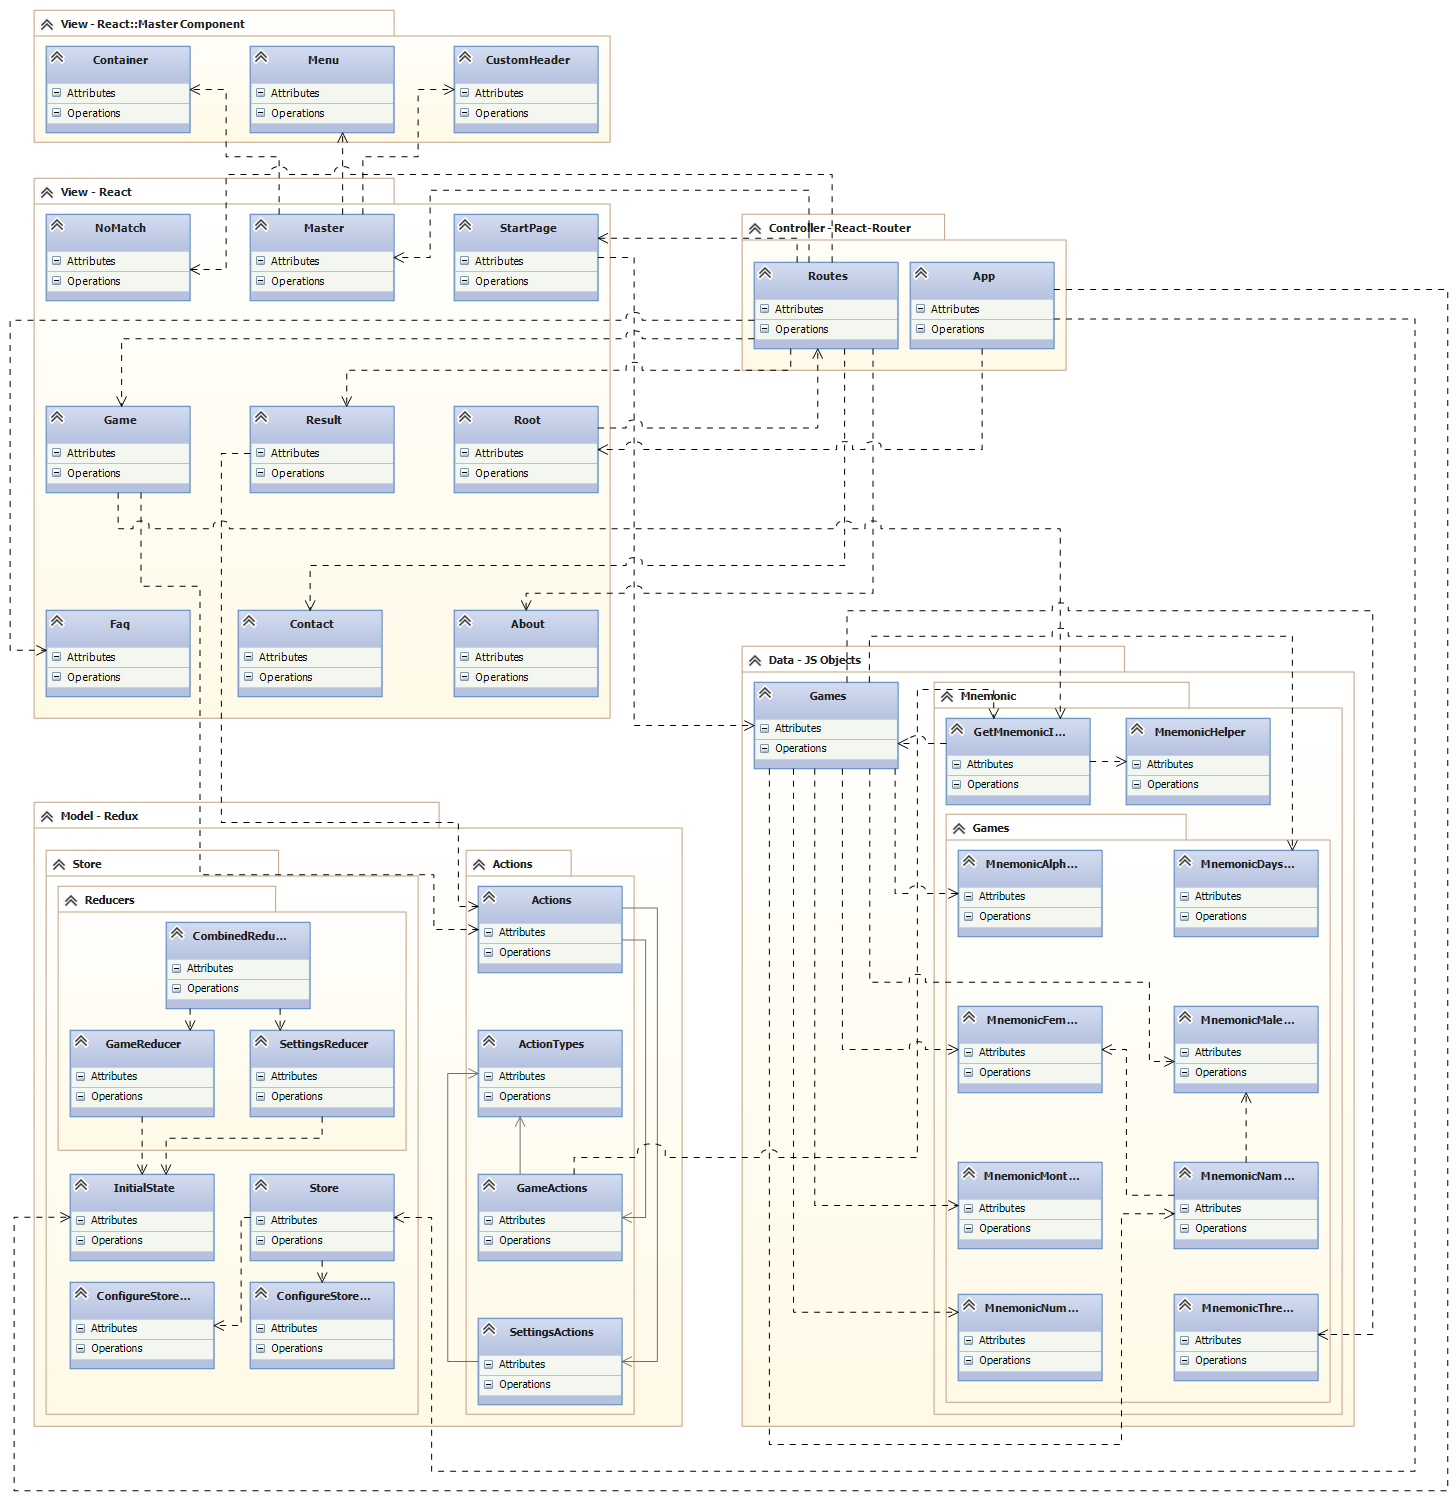
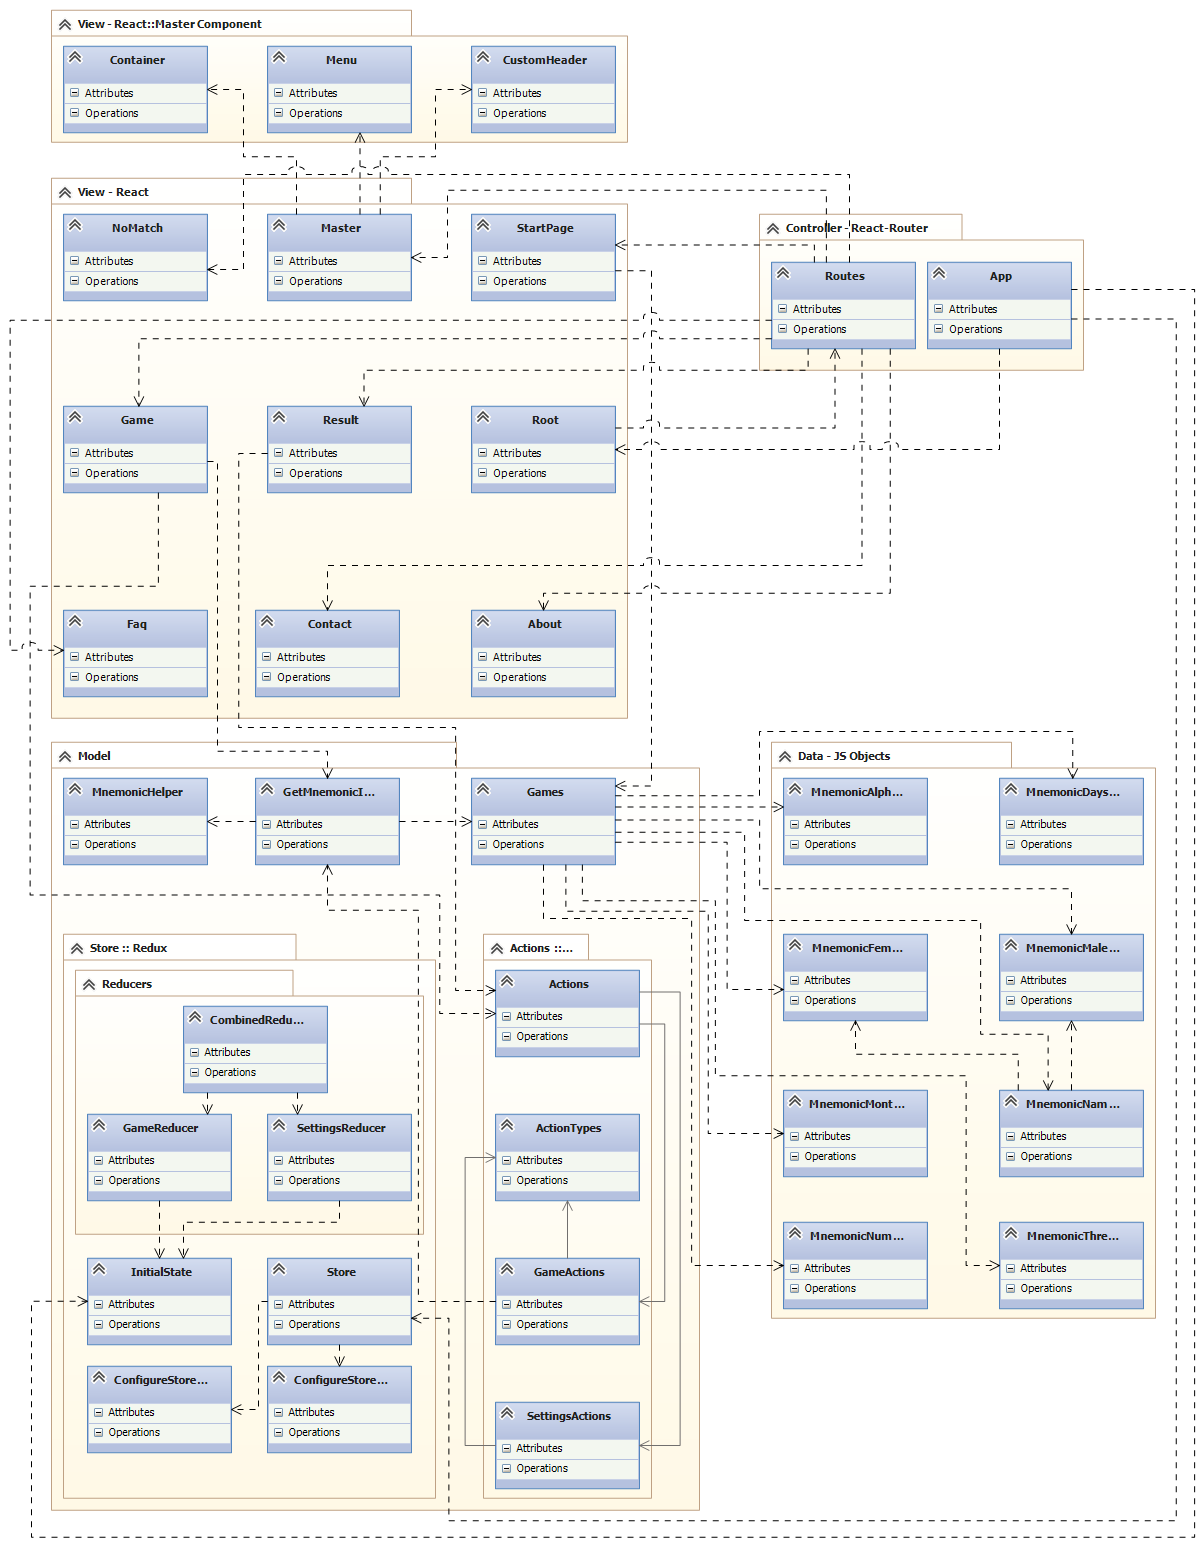
work in progress

diff --git a/_drafts/2016-01-18-comparison-between-the-old-and-new-app-architecture.md b/_drafts/2016-01-18-comparison-between-the-old-and-new-app-architecture.md
@@ -7,11 +7,51 @@ description:
 ---
 This post will be a comparsion between my previous app that where built in Typescript with Bootstrap, Mustache.js and jQuery and this app written in ES2015/2016 with React, Redux, React-MDL and what not. The comparsion will be on how the architecture is designed.
 
+I have tried to squeeze both apps architecture into the MVC pattern so that they will be easier to compare and also more self explanatory since it's a very common pattern.
 
+## [New App](https://github.com/OskarKlintrot/figurkoder.se/)
+
+### Design Diagram
+
+The new app fits very nice into the MVC pattern. I have not included all child components, I have just shown the child components to `Master` as an example. The design looks really good but there are some things worth noting. First up, `App` starts the app but the actual controller, to speak MVC, is not "started" by `App` but is actually initialized by `Root`, which lives in the View. That is not according to the MVC pattern. The View is never communicating directly with the data but always through the Model. `Games` works as a node between the objects containing all the data for the app and both the View and the Model, via `GetMnemonicImages`. Also note that the only assocations we got is between the classes and object handling the Redux action creators. Finally note that all games is living as data and not in the view. This means that if we want to expand the games to 100 games all we need to do is add each game as data and do some minor mapping in the model (there propably exsists a ORM for files but I didn't bother) and voilá! The app has been scaled that easy! We don't have to touch either the View or the rest of the Model or the Controller at all. So this design is great when it comes to scalability.
+
+![Design diagram](https://raw.githubusercontent.com/OskarKlintrotSkolarbeteWP14/2dv607.oskarklintrot.se/gh-pages/public/pics/uml/new/newAppDesignDiagram.png)
+
+#### Game Component
+
+Why did I exlude the child component? Glad You asked! This is what the Game component looks like:
+
+![Game component](https://raw.githubusercontent.com/OskarKlintrotSkolarbeteWP14/2dv607.oskarklintrot.se/gh-pages/public/pics/uml/new/gameComponentDesignDiagram.png)
+
+As you can see it would just be horrendous to look at. Using `React-Redux` it is just the top level components that should be aware of the state, then the state should be passed through as props to the child components. So it should not really matter what the child component looks like, the connection between the View and the Model should still just be in the top level components. Now I know that I have made some mistakes with this in my app but let's pretend I have done it this way... Anyway, as you can see there is a ton of child components. Each child component is just responsible for one thing (most of the times) which gives us both high cohesion and but not necessary low coupling. There is indeed a low dependancy between each of the classes and high reuse potential of each class but one change in a class can result in that the whole app gets another UI!
+
+### Render Game Sequence Diagram
+
+The following sequence diagram is for rendering a single game. `Tile` is a child component to `StartPage` and each `Tile` is mapped to a game from Data. 
+
+![Render game sequence diagram](https://raw.githubusercontent.com/OskarKlintrotSkolarbeteWP14/2dv607.oskarklintrot.se/gh-pages/public/pics/uml/new/NewRenderGameUMLSequenceDiagram.png)
+
+### Start Game Sequence Diagram
+
+![Start game sequence diagram](https://raw.githubusercontent.com/OskarKlintrotSkolarbeteWP14/2dv607.oskarklintrot.se/gh-pages/public/pics/uml/new/NewStartGameUMLSequenceDiagram.png)
+
+## [Old app](https://github.com/OskarKlintrot/Mnemonic-Images-Training/)
+
+### Design Diagram
+
+![Design diagram](https://raw.githubusercontent.com/OskarKlintrotSkolarbeteWP14/2dv607.oskarklintrot.se/gh-pages/public/pics/uml/old/oldAppDesignDiagram.png)
+
+### Render Game Sequence Diagram
+
+![Render game sequence diagram](https://raw.githubusercontent.com/OskarKlintrotSkolarbeteWP14/2dv607.oskarklintrot.se/gh-pages/public/pics/uml/old/OldRenderGameUMLSequenceDiagram.png)
+
+### Start Game Sequence Diagram
+
+![Start game sequence diagram](https://raw.githubusercontent.com/OskarKlintrotSkolarbeteWP14/2dv607.oskarklintrot.se/gh-pages/public/pics/uml/old/OldStartGameUMLSequenceDiagram.png)
 
 {% include plugs/signature.html %}  
 
 __________
 
 Tune of the day:  
-<iframe width="420" height="315" src="" frameborder="0" allowfullscreen></iframe>
+<iframe width="420" height="315" src="https://www.youtube.com/embed/qVaEPx_VyXs" frameborder="0" allowfullscreen></iframe>
